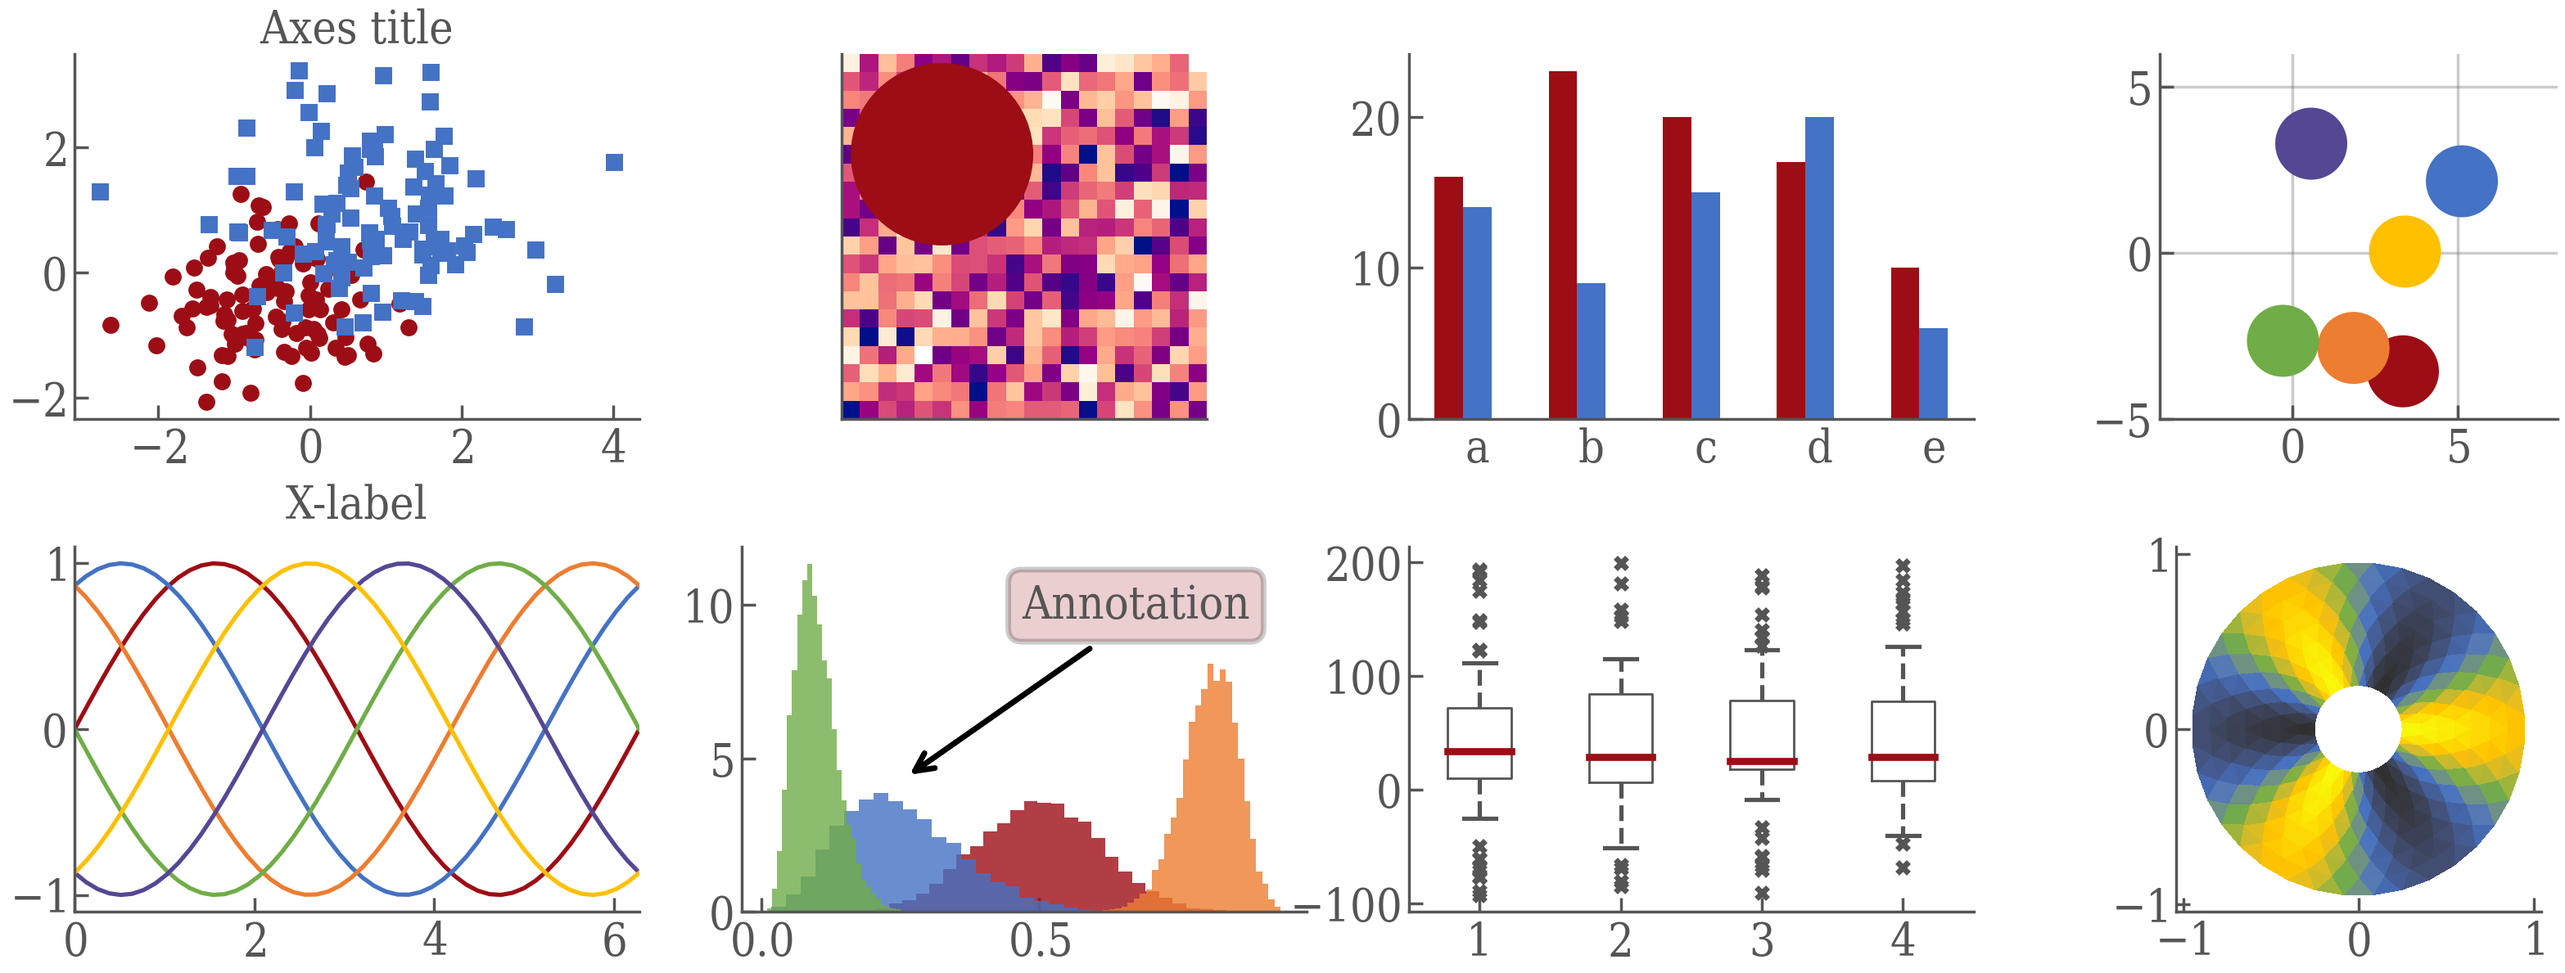
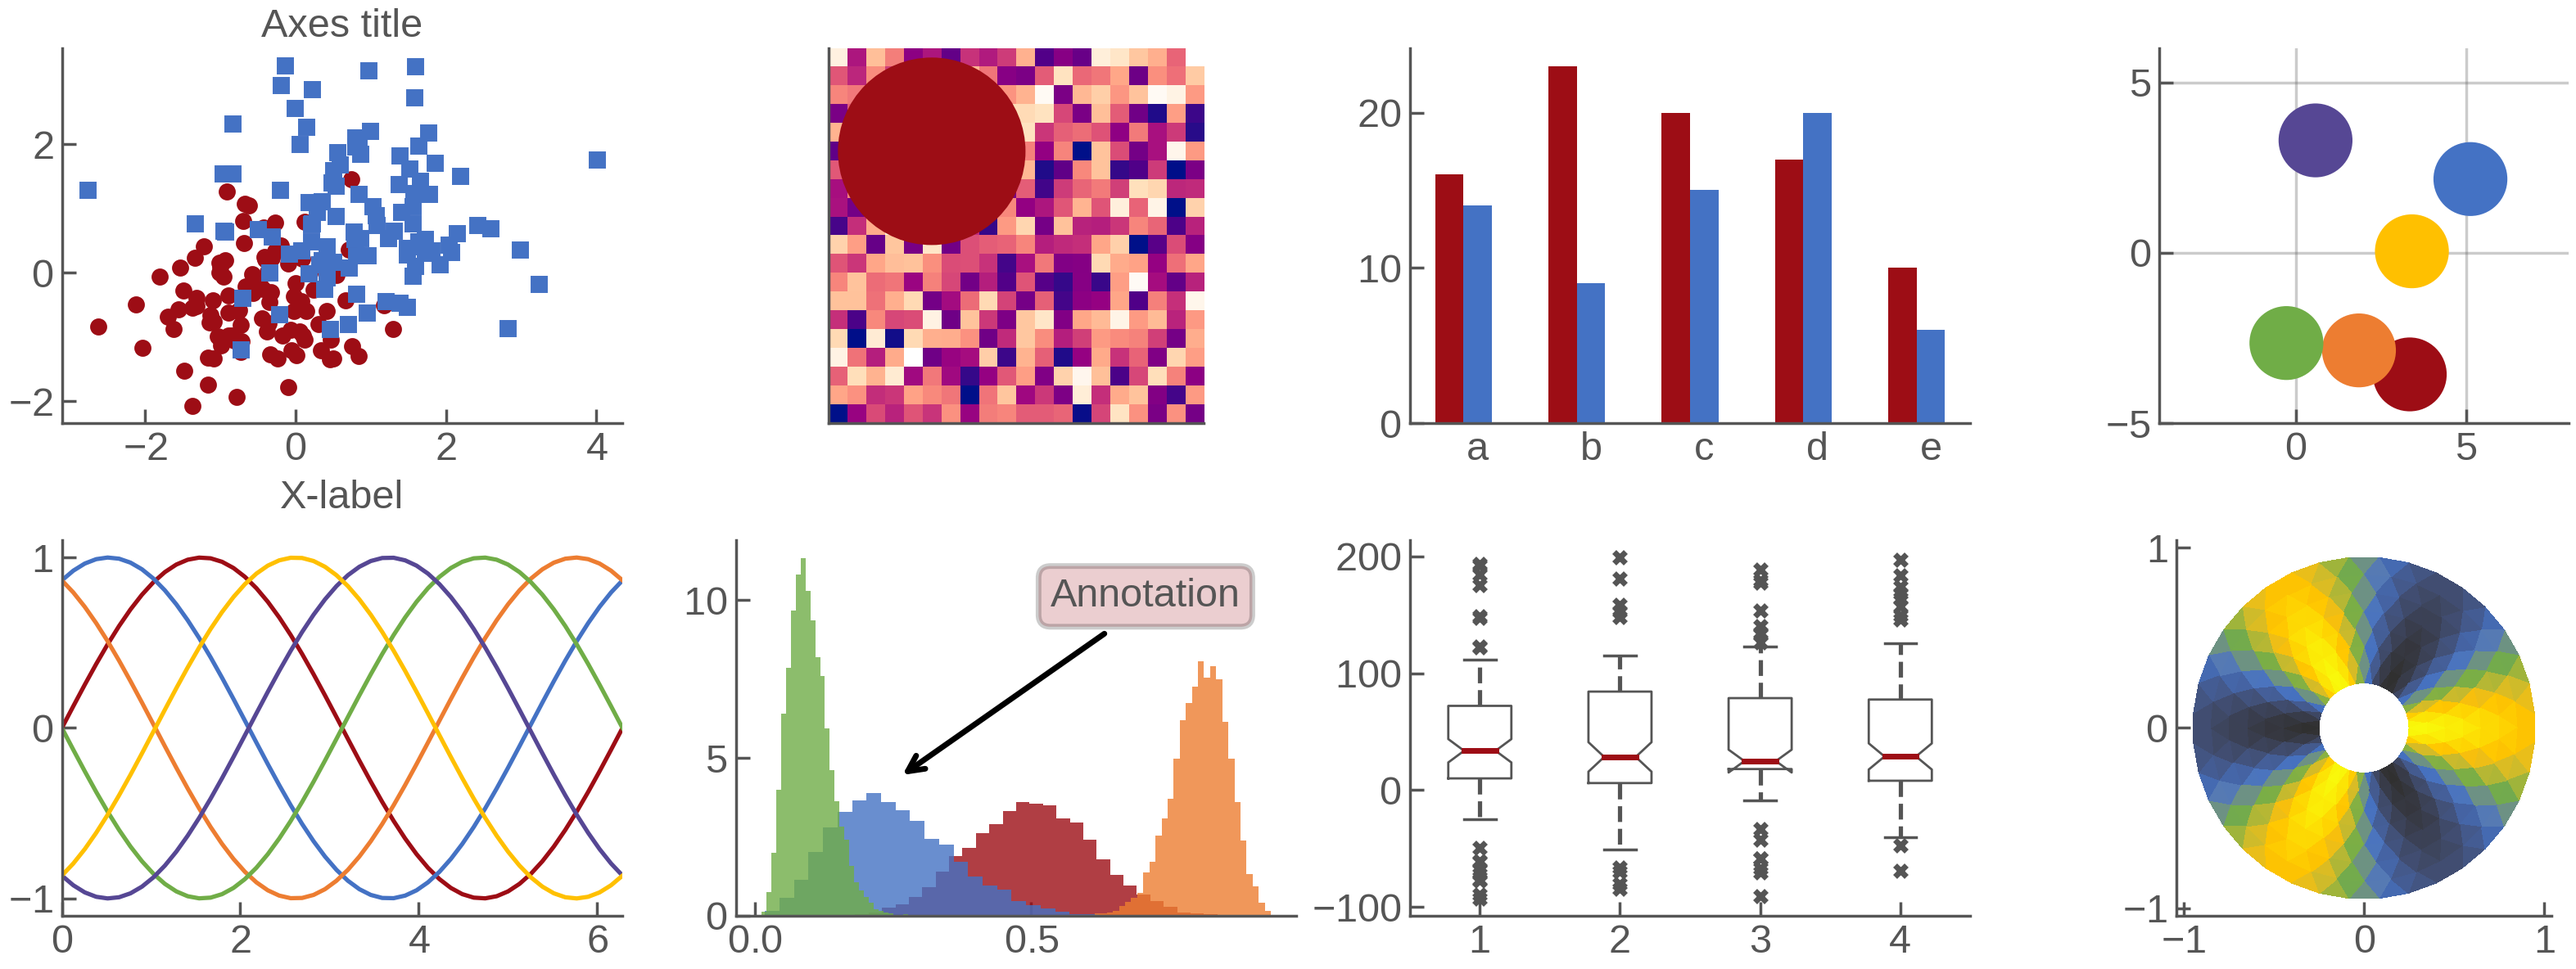
Updated font styles

diff --git a/setup.py b/setup.py
@@ -9,7 +9,7 @@ with open('HISTORY.md') as history_file:
 
 setup_args = dict(
     name='quantstyles',
-    version='0.104',
+    version='0.105',
     description='Matplotlib styles for scientific usage',
     long_description_content_type="text/markdown",
     long_description=README + '\n\n' + HISTORY,

diff --git a/HISTORY.md b/HISTORY.md
@@ -11,3 +11,7 @@ Initial release, includes
 
 ## 0.104
 - Added custom MPL style and its installer
+
+## 0.105
+- Switched to sans-serif fonts according to Nature recommendations
+- Corrected font size for the same reason
